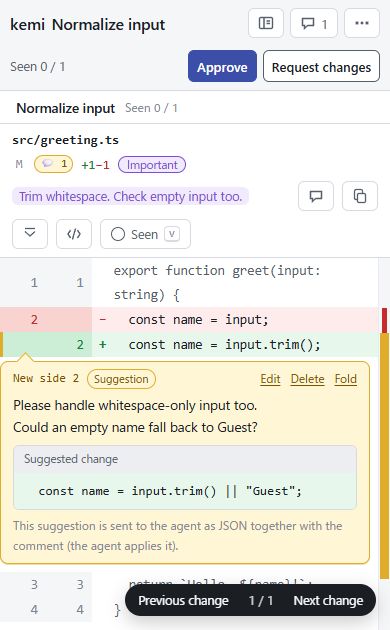
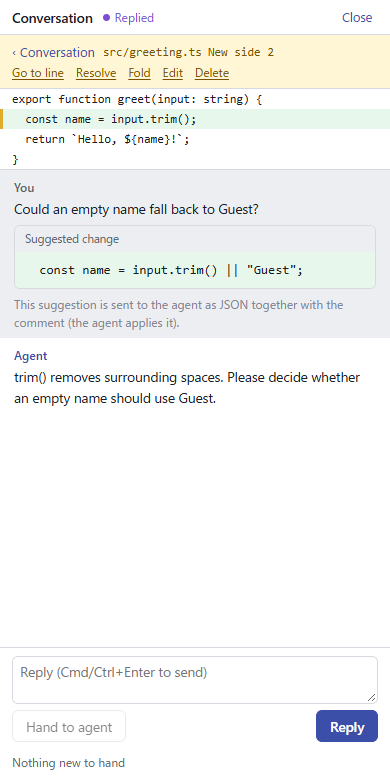
docs: 現行の説明と対話で判断できるレビューをLPに伝える
差分だけを返す旧紹介ではExplanationとレビュー中の質問が伝わらず、README再構成で導線も失われていた。既存のレイアウトと日英の保存契約を維持し、実v0.3.2の画面と契約3の結果抜粋で読み手が判断する流れを示す。

diff --git a/site/language.js b/site/language.js
@@ -2,40 +2,40 @@
 const messages = {
   "en": {
     "copy0": "kemi — Read the change. Share your intent.",
-    "copy1": "kemi is a local review tool. Read diffs in your browser and return line comments and suggestions as JSON.",
+    "copy1": "kemi is a local review tool. Read explanations and changes, ask an AI agent questions, and return your decision and comments as JSON.",
     "copy2": "Skip to content",
     "copy3": "kemi home",
     "copy4": "Main navigation",
     "copy5": "How it works",
     "copy6": "Read the change.<br><span>Share your intent.</span>",
-    "copy7": "After the code comes the review.<br>Read the diff. Leave a thought on the line.<br>Send your intent back to the agent.",
+    "copy7": "Read why the change was made.<br>Ask the agent while the review stays open.<br>Decide when you are ready.",
     "copy8": "kemi is a review tool that runs locally.",
     "copy9": "Get started with kemi <span aria-hidden=\"true\">↗</span>",
     "copy10": "Single binary <i>/</i> Browser review <i>/</i> JSON output",
-    "copy11": "The actual kemi UI: a change from input to input.trim() in src/greeting.ts, with a comment suggesting Guest for an empty name.",
+    "copy11": "Actual kemi v0.3.2: a question and agent reply about using Guest for an empty name in src/greeting.ts. Desktop shows the diff and Conversation; mobile shows the conversation sheet.",
     "copy12": "assets/review-en-desktop.png",
     "copy13": "assets/review-en-mobile.png",
-    "copy14": "01 — Actual kemi UI / Synthetic sample data",
+    "copy14": "01 — Actual kemi v0.3.2 / Synthetic sample data",
     "copy15": "A screenshot of a review, not an interactive session.",
-    "copy16": "A human reads.<br>An agent receives.",
+    "copy16": "Read. Ask.<br>Then decide.",
     "copy17": "A place to think and communicate,<br>between terminal and browser.",
-    "copy18": "Open the diff",
-    "copy19": "Working tree, staged changes, or a commit range. Pass the changes you want to review to the CLI, and your browser opens.",
-    "copy20": "Put intent on the line",
-    "copy21": "Comment where it matters. Add replacement code as a suggestion to show exactly what you want to change.",
-    "copy22": "Line comments + suggestions",
-    "copy23": "Return your review",
-    "copy24": "Approve or request changes. Your comments and suggestions return to the terminal that started kemi as one JSON document.",
+    "copy18": "Read the explanation",
+    "copy19": "With an agent, start with an Explanation: what changed, why, and what needs your judgment. Follow its links to the code. You can also open a diff directly.",
+    "copy20": "Ask before deciding",
+    "copy21": "Comment on the explanation or a line. Press Hand to agent to send your feedback after the agent connects with kemi wait. Replies appear in Conversation; the review stays open.",
+    "copy22": "Explanation + Conversation",
+    "copy23": "Return your decision",
+    "copy24": "Press Approve or Request changes when you are ready. Your decision, comments, suggestions, and conversation return to the starting terminal as one JSON document.",
     "copy25": "Standard output → agent",
     "copy26": "<b>{ }</b> See the JSON an agent receives <small>Sample excerpt</small>",
-    "copy27": "Line numbers, comments, and suggestions keep their structure as they return to the agent. The agent applies the suggested changes.",
+    "copy27": "This version-3 excerpt shows a file comment, a suggestion, and an agent reply. The complete result also records explanation comments and notes on the review. kemi never applies suggestions.",
     "copy28": "Read the complete JSON contract ↗",
     "copy29": "Give the change<br>your attention.",
     "copy30": "The views you need, close at hand.<br>The judgment stays with you.",
-    "copy31": "See the result. Follow the history.",
-    "copy32": "Switch a commit range between its final form and a per-commit view. Follow a changed block back to the commits that made it.",
-    "copy33": "Look beyond the source.",
-    "copy34": "Markdown, CSV / TSV, and images also have rendered views. Check the source diff alongside the visual change.",
+    "copy31": "Understand the reason. Inspect the code.",
+    "copy32": "Read and comment on an Explanation before the diff. Follow its Code links, then switch a commit range between final form and per-commit views to inspect the history.",
+    "copy33": "Read documents. Review a running page.",
+    "copy34": "Markdown, CSV / TSV, and images have rendered views. With kemi --live, inspect a local running page at different widths, compare snapshots, and comment with Element, Arrow, or Pen.",
     "copy35": "Read locally. Return suggestions.",
     "copy36": "kemi listens on loopback by default. It never edits your files; suggested changes are returned as JSON.",
     "copy37": "Try kemi on<br>your next change.",
@@ -46,45 +46,47 @@ const messages = {
     "copy42": "Install from a ZIP on Windows",
     "copy43": "Download <code>kemi-&lt;target&gt;.zip</code> for your CPU from the <a href=\"https://github.com/ba0918/kemi/releases/latest\">latest GitHub Release</a>. Extract <code>kemi.exe</code> and add it to your PATH. Git must also be on your PATH.",
     "copy44": "Give the change a closer look.",
-    "copy45": "{\n  \"kemi\": 1,\n  \"title\": \"Normalize input\",\n  \"verdict\": \"changes_requested\",\n  \"approval\": [],\n  \"comments\": [\n    {\n      \"path\": \"src/greeting.ts\",\n      \"side\": \"new\",\n      \"start_line\": 2,\n      \"end_line\": 2,\n      \"body\": \"Please handle whitespace-only input too.\\nCould an empty name fall back to Guest?\",\n      \"suggestion\": {\n        \"replacement\": \"  const name = input.trim() || \\\"Guest\\\";\"\n      }\n    }\n  ]\n}",
-    "language": "Language"
+    "copy45": "{\n  \"kemi\": 3,\n  \"title\": \"Normalize input\",\n  \"verdict\": \"changes_requested\",\n  \"approval\": [],\n  \"comments\": [\n    {\n      \"target_type\": \"file\",\n      \"path\": \"src/greeting.ts\",\n      \"side\": \"new\",\n      \"start_line\": 2,\n      \"end_line\": 2,\n      \"body\": \"Could an empty name fall back to Guest?\",\n      \"suggestion\": {\n        \"replacement\": \"  const name = input.trim() || \\\"Guest\\\";\"\n      },\n      \"replies\": [\n        {\n          \"author\": \"agent\",\n          \"body\": \"trim() removes surrounding spaces. Please decide whether an empty name should use Guest.\",\n          \"parts\": null\n        }\n      ]\n    }\n  ]\n}",
+    "language": "Language",
+    "copy46": "Japanese usage guide ↗",
+    "copy47": "Agent skill ↗"
   },
   "ja": {
     "copy0": "kemi — 変更を読み、意図を返す。",
-    "copy1": "kemiは、差分をブラウザで読み、行コメントと修正提案をJSONで返すローカルなレビュー道具です。",
+    "copy1": "kemiは、説明と変更を読み、AIエージェントに質問し、判断とコメントをJSONで返すローカルなレビュー道具です。",
     "copy2": "本文へ移動",
     "copy3": "kemi トップ",
     "copy4": "メインナビゲーション",
     "copy5": "使い方",
     "copy6": "変更を読み、<br><span>意図を返す。</span>",
-    "copy7": "コードをつくる、その次に。<br>差分をブラウザで読み、気づきを行に残す。<br>あなたのレビューを、エージェントへ。",
+    "copy7": "何を、なぜ変えたのか読む。<br>レビューを開いたまま、エージェントに質問。<br>納得してから、判断を返す。",
     "copy8": "kemi は、ローカルで動くレビュー道具です。",
     "copy9": "kemi をはじめる <span aria-hidden=\"true\">↗</span>",
     "copy10": "単一バイナリ <i>／</i> ブラウザでレビュー <i>／</i> JSONで受け渡し",
-    "copy11": "kemiの実画面。src/greeting.tsのinputをinput.trim()に変える差分に、空文字ならGuestを使う提案コメントが付いています。",
+    "copy11": "kemi v0.3.2の実画面。src/greeting.tsの空の名前をGuestにするか、質問とエージェントの返答を表示。デスクトップは差分と会話、モバイルは会話シートです。",
     "copy12": "assets/review-desktop.png",
     "copy13": "assets/review-mobile.png",
-    "copy14": "01 — 実際のkemiの画面 / 架空のサンプルデータ",
+    "copy14": "01 — 実際のkemi v0.3.2 / 架空のサンプルデータ",
     "copy15": "この画面は操作用ではなく、表示例です。",
-    "copy16": "読むのは、人。<br>受け取るのは、<br class=\"mobile-break\">エージェント。",
+    "copy16": "説明を読む。質問する。<br>それから、判断する。",
     "copy17": "ターミナルとブラウザのあいだに、<br>考えて、伝えるための場所を。",
-    "copy18": "差分をひらく",
-    "copy19": "作業ツリー、ステージ済みの変更、コミット範囲。読みたい変更をCLIから渡すと、ブラウザが開きます。",
-    "copy20": "行に、意図を残す",
-    "copy21": "気になる行にコメント。置き換えたいコードは修正提案として添えて、どこをどう変えたいか伝えます。",
-    "copy22": "行コメント ＋ 修正提案",
-    "copy23": "レビューを返す",
-    "copy24": "承認か変更要求でレビューを終えると、コメントと提案がひとつのJSONになり、起動元のターミナルへ返ります。",
+    "copy18": "まず、説明を読む",
+    "copy19": "エージェントとのレビューは、変更内容・理由・判断してほしい点をまとめたExplanationから。リンクでコードへ進めます。差分を直接開くこともできます。",
+    "copy20": "判断する前に、質問する",
+    "copy21": "説明や行にコメント。エージェントがkemi waitで接続したら、Hand to agentでまとめて渡せます。返答はConversationに届き、レビューは開いたままです。",
+    "copy22": "説明 ＋ レビュー中の対話",
+    "copy23": "判断を返す",
+    "copy24": "準備ができたらApprove（承認）かRequest changes（変更要求）。判断・コメント・修正提案・会話がひとつのJSONになり、起動元のターミナルへ返ります。",
     "copy25": "標準出力 → エージェント",
     "copy26": "<b>{ }</b> エージェントに返るJSONを見る <small>サンプル・抜粋</small>",
-    "copy27": "画面上の行番号、コメント、修正提案を、構造を保ったまま受け渡します。提案を適用するのはエージェントです。",
+    "copy27": "形式3の抜粋です。行コメント・修正提案・エージェントの返答を示しています。完全な結果には説明へのコメントやレビュー全体への発言も含まれます。kemiは提案を適用しません。",
     "copy28": "完全なJSON仕様を読む ↗",
     "copy29": "変更に、<br>目を向けるために。",
     "copy30": "必要な見方を、手元に。<br>レビューの判断は、あなたに。",
-    "copy31": "全体と経緯を、行き来する。",
-    "copy32": "コミット範囲は「最終形」と「コミットごと」で切り替え。変更ブロックから、その由来もたどれます。",
-    "copy33": "コード以外も、見て確かめる。",
-    "copy34": "Markdown、CSV / TSV、画像には描画表示も。ソースの差分と、見た目の変化を確認できます。",
+    "copy31": "理由を読み、コードを確かめる。",
+    "copy32": "差分の前にExplanationを読み、説明にもコメント。Codeリンクで該当箇所へ進み、コミット範囲の「最終形」と「コミットごと」で経緯をたどれます。",
+    "copy33": "文書も、動くページも確かめる。",
+    "copy34": "Markdown、CSV / TSV、画像は描画表示も。kemi --liveなら、手元で動くページの幅を変え、スナップショットと比べ、Element・Arrow・Penで場所にコメントできます。",
     "copy35": "手元で読み、提案として返す。",
     "copy36": "既定の接続先はループバック。kemiはファイルを書き換えず、修正提案をJSONとして返します。",
     "copy37": "次の変更で、<br>けみしてみる。",
@@ -95,8 +97,10 @@ const messages = {
     "copy42": "WindowsでZIPから導入する",
     "copy43": "<a href=\"https://github.com/ba0918/kemi/releases/latest\">最新のGitHub Release</a>から、お使いのCPUに合う <code>kemi-&lt;target&gt;.zip</code> をダウンロード。展開した <code>kemi.exe</code> をPATHに追加してください。GitもPATHに必要です。",
     "copy44": "変更と、向き合う。",
-    "copy45": "{\n  \"kemi\": 1,\n  \"title\": \"入力の正規化\",\n  \"verdict\": \"changes_requested\",\n  \"approval\": [],\n  \"comments\": [{\n    \"path\": \"src/greeting.ts\",\n    \"side\": \"new\",\n    \"start_line\": 2,\n    \"end_line\": 2,\n    \"body\": \"空白だけの入力も考慮したいです。\\n名前が空なら、ゲストとして扱いませんか？\",\n    \"suggestion\": {\n      \"replacement\": \"  const name = input.trim() || \\\"Guest\\\";\"\n    }\n  }]\n}",
-    "language": "言語"
+    "copy45": "{\n  \"kemi\": 3,\n  \"title\": \"入力の正規化\",\n  \"verdict\": \"changes_requested\",\n  \"approval\": [],\n  \"comments\": [\n    {\n      \"target_type\": \"file\",\n      \"path\": \"src/greeting.ts\",\n      \"side\": \"new\",\n      \"start_line\": 2,\n      \"end_line\": 2,\n      \"body\": \"名前が空なら、ゲストとして扱いませんか？\",\n      \"suggestion\": {\n        \"replacement\": \"  const name = input.trim() || \\\"Guest\\\";\"\n      },\n      \"replies\": [\n        {\n          \"author\": \"agent\",\n          \"body\": \"trim() は前後の空白を取り除きます。空の名前には Guest を使うか、ここで判断してください。\",\n          \"parts\": null\n        }\n      ]\n    }\n  ]\n}",
+    "language": "言語",
+    "copy46": "日本語の使い方 ↗",
+    "copy47": "エージェント用スキル ↗"
   }
 };
 

diff --git a/site/index.html b/site/index.html
@@ -2,7 +2,7 @@
 <html lang="en"><head>
   <meta charset="utf-8">
   <meta name="viewport" content="width=device-width, initial-scale=1">
-  <meta name="description" content="kemi is a local review tool. Read diffs in your browser and return line comments and suggestions as JSON." data-i18n-content="copy1">
+  <meta name="description" content="kemi is a local review tool. Read explanations and changes, ask an AI agent questions, and return your decision and comments as JSON." data-i18n-content="copy1">
   <meta name="color-scheme" content="light">
   <title data-i18n="copy0">kemi — Read the change. Share your intent.</title>
   <link rel="stylesheet" href="style.css">
@@ -21,54 +21,62 @@
         <p class="eyebrow"><span class="tiny-diff" aria-hidden="true">− <b>+</b></span> FOR THE HUMAN IN THE LOOP</p>
         <div class="hero-copy">
           <h1 id="headline" data-i18n="copy6">Read the change.<br><span>Share your intent.</span></h1>
-          <div class="intro"><p data-i18n="copy7">After the code comes the review.<br>Read the diff. Leave a thought on the line.<br>Send your intent back to the agent.</p><p class="definition" data-i18n="copy8">kemi is a review tool that runs locally.</p><a class="button" href="#install" data-i18n="copy9">Get started with kemi <span aria-hidden="true">↗</span></a></div>
+          <div class="intro"><p data-i18n="copy7">Read why the change was made.<br>Ask the agent while the review stays open.<br>Decide when you are ready.</p><p class="definition" data-i18n="copy8">kemi is a review tool that runs locally.</p><a class="button" href="#install" data-i18n="copy9">Get started with kemi <span aria-hidden="true">↗</span></a></div>
         </div>
         <div class="hero-foot"><span>READ. COMMENT. RETURN.</span><span data-i18n="copy10">Single binary <i>/</i> Browser review <i>/</i> JSON output</span></div>
         <figure class="review-figure">
-          <div class="figure-bar"><span><span class="status-dot" aria-hidden="true"></span> REVIEW IN YOUR BROWSER</span><code>kemi --worktree</code></div>
-          <picture><source media="(max-width: 600px)" srcset="assets/review-en-mobile.png" data-i18n-srcset="copy13"><img src="assets/review-en-desktop.png" width="1120" height="510" alt="The actual kemi UI: a change from input to input.trim() in src/greeting.ts, with a comment suggesting Guest for an empty name." data-i18n-alt="copy11" data-i18n-src="copy12"></picture>
-          <figcaption><span data-i18n="copy14">01 — Actual kemi UI / Synthetic sample data</span><span data-i18n="copy15">A screenshot of a review, not an interactive session.</span></figcaption>
+          <div class="figure-bar"><span><span class="status-dot" aria-hidden="true"></span> REVIEW IN YOUR BROWSER</span><code>kemi review.json</code></div>
+          <picture><source media="(max-width: 600px)" srcset="assets/review-en-mobile.png" data-i18n-srcset="copy13"><img src="assets/review-en-desktop.png" width="1440" height="650" alt="Actual kemi v0.3.2: a question and agent reply about using Guest for an empty name in src/greeting.ts. Desktop shows the diff and Conversation; mobile shows the conversation sheet." data-i18n-alt="copy11" data-i18n-src="copy12"></picture>
+          <figcaption><span data-i18n="copy14">01 — Actual kemi v0.3.2 / Synthetic sample data</span><span data-i18n="copy15">A screenshot of a review, not an interactive session.</span></figcaption>
         </figure>
       </section>
       <section class="workflow section" id="workflow" aria-labelledby="workflow-title">
         <div class="section-label">01 / WORKFLOW</div>
-        <div class="section-heading"><h2 id="workflow-title" data-i18n="copy16">A human reads.<br>An agent receives.</h2><p data-i18n="copy17">A place to think and communicate,<br>between terminal and browser.</p></div>
+        <div class="section-heading"><h2 id="workflow-title" data-i18n="copy16">Read. Ask.<br>Then decide.</h2><p data-i18n="copy17">A place to think and communicate,<br>between terminal and browser.</p></div>
         <ol class="steps">
-          <li><span class="step-number">01<span aria-hidden="true">↗</span></span><h3 data-i18n="copy18">Open the diff</h3><p data-i18n="copy19">Working tree, staged changes, or a commit range. Pass the changes you want to review to the CLI, and your browser opens.</p><code>kemi --from main</code></li>
-          <li><span class="step-number">02<span aria-hidden="true">＋</span></span><h3 data-i18n="copy20">Put intent on the line</h3><p data-i18n="copy21">Comment where it matters. Add replacement code as a suggestion to show exactly what you want to change.</p><span class="step-tag" data-i18n="copy22">Line comments + suggestions</span></li>
-          <li><span class="step-number">03<span aria-hidden="true">↵</span></span><h3 data-i18n="copy23">Return your review</h3><p data-i18n="copy24">Approve or request changes. Your comments and suggestions return to the terminal that started kemi as one JSON document.</p><span class="step-tag" data-i18n="copy25">Standard output → agent</span></li>
+          <li><span class="step-number">01<span aria-hidden="true">↗</span></span><h3 data-i18n="copy18">Read the explanation</h3><p data-i18n="copy19">With an agent, start with an Explanation: what changed, why, and what needs your judgment. Follow its links to the code. You can also open a diff directly.</p><code>kemi --from main --explanation why.json</code></li>
+          <li><span class="step-number">02<span aria-hidden="true">＋</span></span><h3 data-i18n="copy20">Ask before deciding</h3><p data-i18n="copy21">Comment on the explanation or a line. Press Hand to agent to send your feedback after the agent connects with kemi wait. Replies appear in Conversation; the review stays open.</p><span class="step-tag" data-i18n="copy22">Explanation + Conversation</span></li>
+          <li><span class="step-number">03<span aria-hidden="true">↵</span></span><h3 data-i18n="copy23">Return your decision</h3><p data-i18n="copy24">Press Approve or Request changes when you are ready. Your decision, comments, suggestions, and conversation return to the starting terminal as one JSON document.</p><span class="step-tag" data-i18n="copy25">Standard output → agent</span></li>
         </ol>
-        <details class="result"><summary><span data-i18n="copy26"><b>{ }</b> See the JSON an agent receives <small>Sample excerpt</small></span><span class="detail-sign" aria-hidden="true">＋</span></summary><div class="result-body"><p data-i18n="copy27">Line numbers, comments, and suggestions keep their structure as they return to the agent. The agent applies the suggested changes.</p><pre><code data-i18n="copy45">{
-  "kemi": 1,
+        <details class="result"><summary><span data-i18n="copy26"><b>{ }</b> See the JSON an agent receives <small>Sample excerpt</small></span><span class="detail-sign" aria-hidden="true">＋</span></summary><div class="result-body"><p data-i18n="copy27">This version-3 excerpt shows a file comment, a suggestion, and an agent reply. The complete result also records explanation comments and notes on the review. kemi never applies suggestions.</p><pre><code data-i18n="copy45">{
+  "kemi": 3,
   "title": "Normalize input",
   "verdict": "changes_requested",
   "approval": [],
   "comments": [
     {
+      "target_type": "file",
       "path": "src/greeting.ts",
       "side": "new",
       "start_line": 2,
       "end_line": 2,
-      "body": "Please handle whitespace-only input too.\nCould an empty name fall back to Guest?",
+      "body": "Could an empty name fall back to Guest?",
       "suggestion": {
         "replacement": "  const name = input.trim() || \"Guest\";"
-      }
+      },
+      "replies": [
+        {
+          "author": "agent",
+          "body": "trim() removes surrounding spaces. Please decide whether an empty name should use Guest.",
+          "parts": null
+        }
+      ]
     }
   ]
-}</code></pre><a href="https://github.com/ba0918/kemi#submit-contract" data-i18n="copy28">Read the complete JSON contract ↗</a></div></details>
+}</code></pre><a href="https://github.com/ba0918/kemi/blob/main/skills/kemi/references/results.md" data-i18n="copy28">Read the complete JSON contract ↗</a></div></details>
       </section>
       <section class="features section" aria-labelledby="features-title">
         <div class="section-label">02 / MADE FOR READING</div>
         <div class="feature-layout"><div><h2 id="features-title" data-i18n="copy29">Give the change<br>your attention.</h2><p class="feature-intro" data-i18n="copy30">The views you need, close at hand.<br>The judgment stays with you.</p><div class="editorial-mark" aria-hidden="true"><span>−</span><span>＋</span></div></div>
-          <dl class="feature-list"><div><dt data-i18n="copy31">See the result. Follow the history.</dt><dd data-i18n="copy32">Switch a commit range between its final form and a per-commit view. Follow a changed block back to the commits that made it.</dd></div><div><dt data-i18n="copy33">Look beyond the source.</dt><dd data-i18n="copy34">Markdown, CSV / TSV, and images also have rendered views. Check the source diff alongside the visual change.</dd></div><div><dt data-i18n="copy35">Read locally. Return suggestions.</dt><dd data-i18n="copy36">kemi listens on loopback by default. It never edits your files; suggested changes are returned as JSON.</dd></div></dl>
+          <dl class="feature-list"><div><dt data-i18n="copy31">Understand the reason. Inspect the code.</dt><dd data-i18n="copy32">Read and comment on an Explanation before the diff. Follow its Code links, then switch a commit range between final form and per-commit views to inspect the history.</dd></div><div><dt data-i18n="copy33">Read documents. Review a running page.</dt><dd data-i18n="copy34">Markdown, CSV / TSV, and images have rendered views. With kemi --live, inspect a local running page at different widths, compare snapshots, and comment with Element, Arrow, or Pen.</dd></div><div><dt data-i18n="copy35">Read locally. Return suggestions.</dt><dd data-i18n="copy36">kemi listens on loopback by default. It never edits your files; suggested changes are returned as JSON.</dd></div></dl>
         </div>
       </section>
       <section class="install section" id="install" aria-labelledby="install-title">
         <div class="section-label">03 / GET STARTED</div>
-        <div class="install-layout"><div><h2 id="install-title" data-i18n="copy37">Try kemi on<br>your next change.</h2><p data-i18n="copy38">The name comes from the Japanese “kemi suru”: to review.<br>Start by opening a diff in your own repository.</p><a class="text-link" href="https://github.com/ba0918/kemi#usage" data-i18n="copy39">Read the usage guide <span aria-hidden="true">↗</span></a></div><div class="install-commands"><div class="command"><span data-i18n="copy40">1. Install with mise</span><pre><code>mise use -g github:ba0918/kemi</code></pre></div><div class="command"><span data-i18n="copy41">2. Run inside a Git repository</span><pre><code>kemi --worktree</code></pre></div><p class="platforms">macOS · Linux · Windows <span>／ x86_64 &amp; arm64</span></p><details class="windows"><summary data-i18n="copy42">Install from a ZIP on Windows</summary><p data-i18n="copy43">Download <code>kemi-&lt;target&gt;.zip</code> for your CPU from the <a href="https://github.com/ba0918/kemi/releases/latest">latest GitHub Release</a>. Extract <code>kemi.exe</code> and add it to your PATH. Git must also be on your PATH.</p></details></div></div>
+        <div class="install-layout"><div><h2 id="install-title" data-i18n="copy37">Try kemi on<br>your next change.</h2><p data-i18n="copy38">The name comes from the Japanese “kemi suru”: to review.<br>Start by opening a diff in your own repository.</p><a class="text-link" href="https://github.com/ba0918/kemi#review-your-changes" data-i18n="copy39">Read the usage guide <span aria-hidden="true">↗</span></a><br><a class="text-link" href="https://github.com/ba0918/kemi/blob/main/README-ja.md" data-i18n="copy46">Japanese usage guide ↗</a></div><div class="install-commands"><div class="command"><span data-i18n="copy40">1. Install with mise</span><pre><code>mise use -g github:ba0918/kemi</code></pre></div><div class="command"><span data-i18n="copy41">2. Run inside a Git repository</span><pre><code>kemi --worktree</code></pre></div><p class="platforms">macOS · Linux · Windows <span>／ x86_64 &amp; arm64</span></p><details class="windows"><summary data-i18n="copy42">Install from a ZIP on Windows</summary><p data-i18n="copy43">Download <code>kemi-&lt;target&gt;.zip</code> for your CPU from the <a href="https://github.com/ba0918/kemi/releases/latest">latest GitHub Release</a>. Extract <code>kemi.exe</code> and add it to your PATH. Git must also be on your PATH.</p></details></div></div>
       </section>
     </main>
-    <footer><a class="wordmark" href="#">kemi<span class="mark" aria-hidden="true">*</span></a><span data-i18n="copy44">Give the change a closer look.</span><div><a href="https://github.com/ba0918/kemi#agent-skill">Agent skill ↗</a><a href="https://github.com/ba0918/kemi">GitHub ↗</a><span>MIT / Apache-2.0</span></div></footer>
+    <footer><a class="wordmark" href="#">kemi<span class="mark" aria-hidden="true">*</span></a><span data-i18n="copy44">Give the change a closer look.</span><div><a href="https://github.com/ba0918/kemi/blob/main/skills/kemi/SKILL.md"><span data-i18n="copy47">Agent skill ↗</span></a><a href="https://github.com/ba0918/kemi">GitHub ↗</a><span>MIT / Apache-2.0</span></div></footer>
   </div>
 
 

diff --git a/site/README.md b/site/README.md
@@ -18,12 +18,19 @@ Actions画面の `Pages` から手動実行もできます。公開対象は `si
 JavaScript無効時は英語を表示します。file URLでの保存可否はブラウザに依存します。
 本文・操作・代替テキスト・文書言語・タイトルを揃えて切り替えます。
 製品UIの英語は元のまま、サンプルデータは日英それぞれを撮影しています。
-実画面は `web/` の未変更のフロントエンドに架空の読み取り専用データを渡して
-Chromeで撮影しました。製品の動作確認全般を代替するものではありません。
-JSONは説明用の抜粋であり、完全なスキーマはREADMEのSubmit contractを参照。
+実画面は公開 v0.3.2 のWindowsバイナリを起動し、架空のmanifestと初期Explanationを
+渡してChromiumで撮影しました。日英のデスクトップは1440×650、モバイルは390×780です。
+実際の `kemi wait`、Hand to agent、`kemi reply` で質問と返答を表示しています。
+デスクトップは差分とConversation、モバイルはConversationのシートを示します。
+製品の動作確認全般を代替するものではありません。
+JSONは形式3の説明用の抜粋です。省略された必須フィールドもあるため、完全な結果を
+処理する際は[結果の参照資料](../skills/kemi/references/results.md)を参照してください。
 
-確認元: リポジトリの README.md / PROJECT.md / web/、
-commit `3e57a20a8cbc8af138f0231638bf5a6c135f7472`。
+確認元: リポジトリの README.md / README-ja.md / PROJECT.md / web/、
+skills/kemi のExplanation・会話・結果の参照資料、docs/spec/ の現行契約。
+commit `436d362d7fb5145de085ff5bbd50735f3331314d` の実行コードとweb/はv0.3.2と一致します。
+初期Explanationは `--explanation <file>` で起動時に保存します。
+起動前に `explain --context` を呼ぶ手順はありません。
 `--resume` による新しい差分へのコメント引き継ぎは紹介していません。
 
 ページ中の開閉はブラウザ標準の details/summary、移動はアンカーです。
